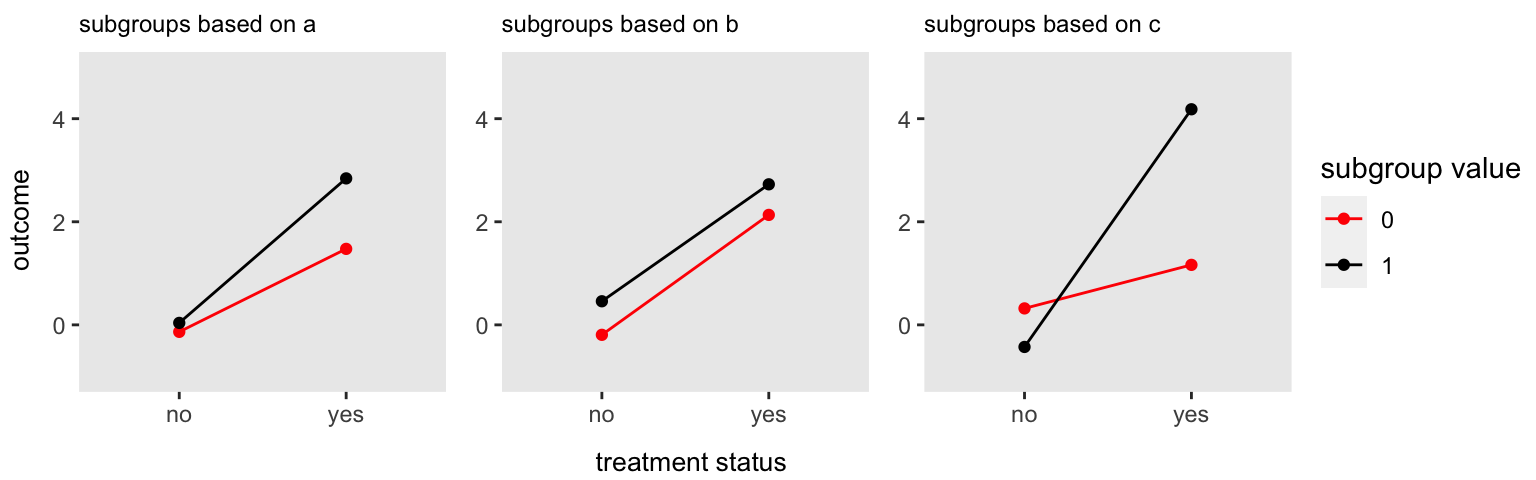
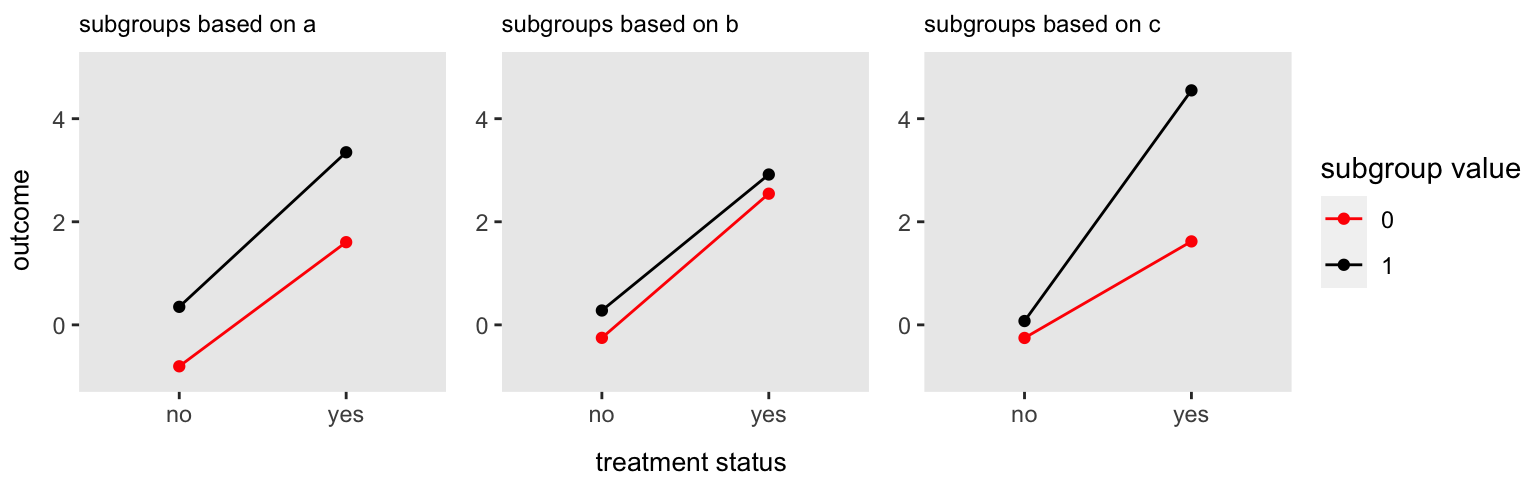
Updating post

diff --git a/content/post/2021-08-31-subgroup-analysis-using-a-bayesian-hierarchical-model/index.en.html b/content/post/2021-08-31-subgroup-analysis-using-a-bayesian-hierarchical-model/index.en.html
@@ -39,7 +39,7 @@ drx &lt;- defDataAdd(varname = &quot;theta&quot;, formula = &quot;0 + 2*a  + 4*c
 drx &lt;- defDataAdd(drx, varname = &quot;y&quot;, formula = &quot;0 + theta*rx&quot;, variance = 4,
   dist = &quot;normal&quot;)</code></pre>
 <p>In the data generation process, I am assigning group identifiers based on the covariates that will be relevant for the Bayes model (described further below).</p>
-<pre class="r"><code>set.seed(38715)
+<pre class="r"><code>set.seed(3871598)
 
 dd &lt;- genData(150, d)
 dd &lt;- trtAssign(dd, grpName = &quot;rx&quot;)
@@ -55,18 +55,18 @@ dd[a==0 &amp; b==1 &amp; c==1, grp := 7]
 dd[a==1 &amp; b==1 &amp; c==1, grp := 8]
 
 dd</code></pre>
-<pre><code>##       id a b c rx theta      y grp
-##   1:   1 0 0 0  0     0  2.169   1
-##   2:   2 1 0 1  0     5  1.044   6
-##   3:   3 1 0 1  0     5 -3.383   6
-##   4:   4 0 0 0  0     0  3.342   1
-##   5:   5 1 1 0  0     2  1.709   5
-##  ---                              
-## 146: 146 1 0 0  1     2  4.046   2
-## 147: 147 1 0 0  0     2  1.565   2
-## 148: 148 1 1 1  0     5 -0.332   8
-## 149: 149 1 1 1  0     5  0.924   8
-## 150: 150 1 0 0  0     2  5.129   2</code></pre>
+<pre><code>##       id a b c rx theta     y grp
+##   1:   1 1 0 1  0     5  0.14   6
+##   2:   2 1 1 0  0     2  1.57   5
+##   3:   3 0 0 0  0     0  0.36   1
+##   4:   4 1 1 0  1     2  1.39   5
+##   5:   5 1 1 1  0     5 -2.97   8
+##  ---                             
+## 146: 146 1 1 0  1     2  3.34   5
+## 147: 147 0 0 1  0     4  1.55   4
+## 148: 148 1 0 0  0     2  2.94   2
+## 149: 149 1 1 1  1     5  4.61   8
+## 150: 150 0 1 1  1     4  4.38   7</code></pre>
 <p>Here is a plot of the average outcome <span class="math inline">\(Y\)</span> for each of the subgroups with and without treatment. The treatment effect for a particular subgroup is the difference of the <span class="math inline">\(Y\)</span> values for each segment. Now, it appears that there is a treatment effect for the two subgroups <span class="math inline">\(B=0\)</span> and <span class="math inline">\(B=1\)</span>, yet <span class="math inline">\(B\)</span> was not supposed to have any impact on the overall effect size, which is <span class="math inline">\(0\)</span>. Just in case this is at all confusing, this is due to the fact that these patients have characteristics <span class="math inline">\(A\)</span> and <span class="math inline">\(C\)</span>, which do influence the effect size. Indeed, if you compare the subgroups <span class="math inline">\(B=0\)</span> and <span class="math inline">\(B=1\)</span>, it appears that the effect size could be the same, which is consistent with the fact that <span class="math inline">\(B\)</span> has no impact on effect size. This is definitely not the case when comparing <span class="math inline">\(C=0\)</span> and <span class="math inline">\(C=1\)</span>. I point this out, because when I report the estimated effect sizes from the models, I will be reporting the subgroup-specific effects shown here, rather than parameter estimates of <span class="math inline">\(\theta\)</span>.</p>
 <p><img src="{{< blogdown/postref >}}index.en_files/figure-html/unnamed-chunk-4-1.png" width="768" /></p>
 </div>
@@ -97,14 +97,14 @@ cis &lt;- data.table(
 setnames(cis, c(&quot;rx&quot;,&quot;2.5 %&quot;, &quot;97.5 %&quot;), c(&quot;p.50&quot;,&quot;p.025&quot;, &quot;p.975&quot;))</code></pre>
 <p>Inspecting the point estimates (denoted as <em>p.50</em> for the treatment effect for each subgroup (and the overall group), we see that they match pretty closely with the effect sizes depicted in the figure of the means by subgroup above. I compare these estimates to the Bayes estimates in a bit.</p>
 <pre class="r"><code>cis</code></pre>
-<pre><code>##    subgroup model  p.50   p.025 p.975
-## 1:    a = 0     3 1.610  0.3502  2.87
-## 2:    a = 1     3 2.803  1.9016  3.71
-## 3:    b = 0     3 2.327  1.3806  3.27
-## 4:    b = 1     3 2.269  1.1488  3.39
-## 5:    c = 0     3 0.845 -0.0647  1.75
-## 6:    c = 1     3 4.611  3.6611  5.56
-## 7:  overall     3 2.351  1.6132  3.09</code></pre>
+<pre><code>##    subgroup model p.50 p.025 p.975
+## 1:    a = 0     3  2.4   1.2   3.6
+## 2:    a = 1     3  3.0   2.1   3.9
+## 3:    b = 0     3  2.8   1.8   3.7
+## 4:    b = 1     3  2.6   1.5   3.8
+## 5:    c = 0     3  1.9   1.0   2.7
+## 6:    c = 1     3  4.5   3.4   5.6
+## 7:  overall     3  2.8   2.0   3.5</code></pre>
 </div>
 <div id="two-possible-bayesian-models" class="section level3">
 <h3>Two possible Bayesian models</h3>
@@ -126,7 +126,7 @@ y_{ij} \sim N\left(\alpha_j +\theta_{j}x_i, \ \sigma_0   \right)
 \end{aligned}\]</span>
 <div id="pooled-model" class="section level4">
 <h4>Pooled model</h4>
-<p>So far, the parameterization for the <em>pooled</em> and <em>unpooled</em> models are the same. And this is where the models diverge. The idea behind the <em>pooled</em> model is that the <em>main effects</em> of <span class="math inline">\(a\)</span>, <span class="math inline">\(b\)</span>, <span class="math inline">\(c\)</span> (<span class="math inline">\(\tau_a\)</span>, <span class="math inline">\(\tau_b\)</span>, and <span class="math inline">\(\tau_c\)</span>, respectively) are drawn from the same distribution centered around <span class="math inline">\(\delta_m\)</span> with a standard deviation <span class="math inline">\(\sigma_m\)</span>, both of which will be estimated from the data. This means that the effect of one covariate will inform to some extent the effect of the others. Of course, as the number of observations increases, the extent of pooling will be reduced. The three 2-level interaction effects (<span class="math inline">\(\tau_{ab}\)</span>, <span class="math inline">\(\tau_{ac}\)</span> and <span class="math inline">\(\tau_{bc}\)</span>) are independent of the main effects, but they share a commone distribution to be estimated from the data. (In this case, the <span class="math inline">\(\alpha_j\)</span> intercepts are also pooled, but we could just as easily relax this, as we are not particuarly interested in these parameters.)</p>
+<p>So far, the parameterization for the <em>pooled</em> and <em>unpooled</em> models are the same. And this is where the models diverge. The idea behind the <em>pooled</em> model is that the <em>main effects</em> of <span class="math inline">\(a\)</span>, <span class="math inline">\(b\)</span>, <span class="math inline">\(c\)</span> (<span class="math inline">\(\tau_a\)</span>, <span class="math inline">\(\tau_b\)</span>, and <span class="math inline">\(\tau_c\)</span>, respectively) are drawn from the same distribution centered around <span class="math inline">\(\delta_m\)</span> with a standard deviation <span class="math inline">\(\sigma_m\)</span>, both of which will be estimated from the data. This means that the effect of one covariate will inform to some extent the effect of the others. Of course, as the number of observations increases, the extent of pooling will be reduced. The three 2-level interaction effects (<span class="math inline">\(\tau_{ab}\)</span>, <span class="math inline">\(\tau_{ac}\)</span> and <span class="math inline">\(\tau_{bc}\)</span>) are independent of the main effects, but they share a common distribution to be estimated from the data. (In this case, the <span class="math inline">\(\alpha_j\)</span> intercepts are also pooled, but we could just as easily relax this, as we are not particularly interested in these parameters.)</p>
 <span class="math display">\[\begin{aligned}
   \alpha_j &amp;\sim N(\mu = \delta_\alpha, \sigma = \sigma_\alpha) \\
   \tau_a, \tau_b, \tau_c &amp;\sim N(\mu = \delta_m, \sigma = \sigma_m) \\
@@ -160,6 +160,7 @@ y_{ij} \sim N\left(\alpha_j +\theta_{j}x_i, \ \sigma_0   \right)
 </div>
 <div id="model-estimation" class="section level3">
 <h3>Model estimation</h3>
+<p>I’m using <code>cmdstanr</code> to estimate the models in <code>Stan</code>. (The Stan code is available if any anyone is interested, or you can try to write it yourself.) For each model, I am sampling in 4 chains of length 2500 following 500 warm-up steps. I’ll skip the required diagnostics here (e.g. trace plots) for brevity, but I did check everything, and things looked OK.</p>
 <pre class="r"><code>model_pool &lt;- cmdstan_model(&quot;code/pooled_subgroup.stan&quot;)
 model_unpool &lt;- cmdstan_model(&quot;code/unpooled_subgroup.stan&quot;)</code></pre>
 <pre class="r"><code>fit_pool &lt;- model_pool$sample(
@@ -174,14 +175,14 @@ model_unpool &lt;- cmdstan_model(&quot;code/unpooled_subgroup.stan&quot;)</code>
 )</code></pre>
 <pre><code>## Running MCMC with 4 parallel chains...
 ## 
-## Chain 3 finished in 2.8 seconds.
-## Chain 1 finished in 2.8 seconds.
-## Chain 4 finished in 3.0 seconds.
-## Chain 2 finished in 3.1 seconds.
+## Chain 4 finished in 2.0 seconds.
+## Chain 1 finished in 2.5 seconds.
+## Chain 3 finished in 3.1 seconds.
+## Chain 2 finished in 3.9 seconds.
 ## 
 ## All 4 chains finished successfully.
 ## Mean chain execution time: 2.9 seconds.
-## Total execution time: 3.2 seconds.</code></pre>
+## Total execution time: 4.1 seconds.</code></pre>
 <pre class="r"><code>fit_unpool &lt;- model_unpool$sample(
     data = list(N = dd[,.N], rx = dd[,rx], sub_grp = dd[,grp], y=dd[,y], prior_sigma=10),
     refresh = 0,
@@ -194,36 +195,83 @@ model_unpool &lt;- cmdstan_model(&quot;code/unpooled_subgroup.stan&quot;)</code>
 )</code></pre>
 <pre><code>## Running MCMC with 4 parallel chains...
 ## 
-## Chain 3 finished in 2.0 seconds.
-## Chain 4 finished in 2.0 seconds.
-## Chain 1 finished in 2.2 seconds.
-## Chain 2 finished in 2.9 seconds.
+## Chain 1 finished in 2.0 seconds.
+## Chain 3 finished in 2.1 seconds.
+## Chain 4 finished in 2.1 seconds.
+## Chain 2 finished in 2.7 seconds.
 ## 
 ## All 4 chains finished successfully.
-## Mean chain execution time: 2.3 seconds.
-## Total execution time: 3.1 seconds.</code></pre>
+## Mean chain execution time: 2.2 seconds.
+## Total execution time: 2.9 seconds.</code></pre>
 </div>
 <div id="extracting-data" class="section level3">
 <h3>Extracting data</h3>
+<p>In this case, I am actually not directly interested in the effect parameters <span class="math inline">\(\theta_j\)</span>, but actually in the estimated treatment effects for the six subgroups defined by <span class="math inline">\(a=0\)</span>, <span class="math inline">\(a=1\)</span>, <span class="math inline">\(b=0\)</span>, <span class="math inline">\(b=1\)</span>, <span class="math inline">\(c=0\)</span>, and <span class="math inline">\(c=1\)</span>. (These groups are not distinct from one another, as each individual has measures for each of <span class="math inline">\(a\)</span>, <span class="math inline">\(b\)</span>, and <span class="math inline">\(c\)</span>.) I will step through the process of how I get these estimates, and then will plot a summary of the estimates.</p>
+<p>First, I extract the key parameter estimates into an <code>rvars</code> data structure, which I discussed recently in a couple of posts (<a href="https://www.rdatagen.net/post/2021-08-10-fitting-your-model-is-only-the-begining-bayesian-posterior-probability-checks/" target="_blank">here</a> and <a href="https://www.rdatagen.net/post/2021-08-17-quick-follow-up-on-posterior-probability-checks-with-rvars/" target="_blank">here</a>). Although the object <code>r</code> below looks like a list of 3 items with just a handful of values, there is actually an entire data set supporting each value that contains 10,000 samples from the posterior distribution. What we are seeing are the mean and standard deviation of those distributions.</p>
 <pre class="r"><code>r &lt;- as_draws_rvars(fit_pool$draws(variables = c(&quot;alpha&quot;,&quot;theta&quot;,&quot;sigma&quot;)))
+r</code></pre>
+<pre><code>## # A draws_rvars: 2500 iterations, 4 chains, and 3 variables
+## $alpha: rvar&lt;2500,4&gt;[8] mean ± sd:
+## [1] -0.81 ± 0.51   0.17 ± 0.38  -0.53 ± 0.59  -0.29 ± 0.49   0.26 ± 0.56 
+## [6]  0.24 ± 0.42   0.48 ± 0.65  -0.11 ± 0.47 
+## 
+## $theta: rvar&lt;2500,4&gt;[8] mean ± sd:
+## [1] 0.8 ± 0.66  2.4 ± 0.52  1.7 ± 0.79  3.7 ± 0.72  2.4 ± 0.72  5.0 ± 0.68 
+## [7] 4.3 ± 0.88  4.4 ± 0.84 
+## 
+## $sigma: rvar&lt;2500,4&gt;[1] mean ± sd:
+## [1] 1.9 ± 0.12</code></pre>
+<p>A cool feature of the <code>rvars</code> data structure (which is part of the package <code>posterior</code>) is that they can be stored in a data.frame, and easily manipulated. Here I am matching the <span class="math inline">\(\theta_j\)</span> to each individual depending on their covariate pattern <span class="math inline">\(j\)</span>. The plan is to generate simulated data for each individual based on the estimated means and standard deviations.</p>
+<pre class="r"><code>df &lt;- as.data.frame(dd)
     
-est_effects &lt;- function(sub_grp) {
+df$theta_hat &lt;- r$theta[dd$grp]
+df$alpha_hat &lt;- r$alpha[dd$grp]
+df$mu_hat &lt;- with(df, alpha_hat + rx* theta_hat)</code></pre>
+<p>Here are the first ten rows (out of the 150 individual records):</p>
+<pre class="r"><code>head(df, 10)</code></pre>
+<pre><code>##    id a b c rx theta     y grp  theta_hat    alpha_hat       mu_hat
+## 1   1 1 0 1  0     5  0.14   6 5.0 ± 0.68  0.24 ± 0.42  0.24 ± 0.42
+## 2   2 1 1 0  0     2  1.57   5 2.4 ± 0.72  0.26 ± 0.56  0.26 ± 0.56
+## 3   3 0 0 0  0     0  0.36   1 0.8 ± 0.66 -0.81 ± 0.51 -0.81 ± 0.51
+## 4   4 1 1 0  1     2  1.39   5 2.4 ± 0.72  0.26 ± 0.56  2.65 ± 0.51
+## 5   5 1 1 1  0     5 -2.97   8 4.4 ± 0.84 -0.11 ± 0.47 -0.11 ± 0.47
+## 6   6 1 1 1  0     5 -0.73   8 4.4 ± 0.84 -0.11 ± 0.47 -0.11 ± 0.47
+## 7   7 1 1 0  0     2  2.73   5 2.4 ± 0.72  0.26 ± 0.56  0.26 ± 0.56
+## 8   8 1 1 0  1     2 -0.16   5 2.4 ± 0.72  0.26 ± 0.56  2.65 ± 0.51
+## 9   9 0 0 1  1     4  2.42   4 3.7 ± 0.72 -0.29 ± 0.49  3.44 ± 0.59
+## 10 10 1 0 0  1     2  4.53   2 2.4 ± 0.52  0.17 ± 0.38  2.54 ± 0.43</code></pre>
+<p>We can add a column of predicted “values” to the data frame.</p>
+<pre class="r"><code>df$pred &lt;- rvar_rng(rnorm, nrow(df), df$mu_hat, r$sigma)
+head(df[,c(&quot;id&quot;, &quot;grp&quot;, &quot;mu_hat&quot;, &quot;pred&quot;)], 10)</code></pre>
+<pre><code>##    id grp       mu_hat       pred
+## 1   1   6  0.24 ± 0.42  0.216 ± 2
+## 2   2   5  0.26 ± 0.56  0.261 ± 2
+## 3   3   1 -0.81 ± 0.51 -0.807 ± 2
+## 4   4   5  2.65 ± 0.51  2.644 ± 2
+## 5   5   8 -0.11 ± 0.47 -0.092 ± 2
+## 6   6   8 -0.11 ± 0.47 -0.071 ± 2
+## 7   7   5  0.26 ± 0.56  0.294 ± 2
+## 8   8   5  2.65 ± 0.51  2.622 ± 2
+## 9   9   4  3.44 ± 0.59  3.398 ± 2
+## 10 10   2  2.54 ± 0.43  2.528 ± 2</code></pre>
+<p>But note that we don’t just have a single value for each of the 150 individuals, but 10,000 samples for each of the 150 individuals (for a total 1.5 million predicted values.) Here is a little bit of evidence that this is the case, as you can see that this is an <code>rvar</code> of dimension <span class="math inline">\(2500 \text{ samples} \times 4 \text{ chains}\)</span>, or <span class="math inline">\(10,000\)</span> predicted values:</p>
+<pre class="r"><code>df[9, &quot;pred&quot;]</code></pre>
+<pre><code>## rvar&lt;2500,4&gt;[1] mean ± sd:
+## [1] 3.4 ± 2</code></pre>
+<p>Finally, we are ready to get estimates of the within-subgroup effect sizes. I’ve written a little function to help out here. For each covariate <span class="math inline">\(a\)</span>, <span class="math inline">\(b\)</span>, and <span class="math inline">\(c\)</span>, the function splits the data set into four subsets. So, for covariate <span class="math inline">\(a\)</span> we have <span class="math inline">\([a=0 \ \&amp; \ rx=0]\)</span>, <span class="math inline">\([a=0 \ \&amp; \ rx=1]\)</span>, <span class="math inline">\([a=1 \ \&amp; \ rx=0]\)</span>, and <span class="math inline">\(a=1 \ \&amp; \ rx=1]\)</span>. For each of those subsets, we get a distribution of mean predicted values by averaging across the distribution of individual predicted values. So, the variable <code>effects</code> contains the distribution of effects for the six subgroups (<span class="math inline">\(a=0\)</span>, <span class="math inline">\(a=1\)</span>, <span class="math inline">\(b=0\)</span>, <span class="math inline">\(b=1\)</span>, <span class="math inline">\(c=0\)</span>, and <span class="math inline">\(c=1\)</span>):</p>
+<pre class="r"><code>est_effects &lt;- function(sub_grp) {
   mean_pred &lt;- lapply(split(df[,c(sub_grp, &quot;rx&quot;,&quot;pred&quot;)], df[, c(sub_grp, &quot;rx&quot;)]), 
     function(x) rvar_mean(x$pred)
   )
   c(mean_pred[[&quot;0.1&quot;]] - mean_pred[[&quot;0.0&quot;]], mean_pred[[&quot;1.1&quot;]] - mean_pred[[&quot;1.0&quot;]])
 }
-    
-df &lt;- as.data.frame(dd)
-    
-df$theta_hat &lt;- r$theta[dd$grp]
-df$alpha_hat &lt;- r$alpha[dd$grp]
-df$mu_hat &lt;- with(df, alpha_hat + rx* theta_hat)
-    
-df$pred &lt;- rvar_rng(rnorm, nrow(df), df$mu_hat, r$sigma)
+
 effects &lt;- do.call(c, lapply(c(&quot;a&quot;,&quot;b&quot;,&quot;c&quot;), est_effects))
-    
-mean_pred &lt;- lapply(split(df[,c(&quot;rx&quot;,&quot;pred&quot;)], df[, &quot;rx&quot;]), function(x) rvar_mean(x$pred) )
+effects</code></pre>
+<pre><code>## rvar&lt;2500,4&gt;[6] mean ± sd:
+## [1] 2.0 ± 0.67  3.2 ± 0.55  2.6 ± 0.51  3.0 ± 0.75  1.9 ± 0.57  4.3 ± 0.67</code></pre>
+<p>We can also get the distribution of the overall (marginal) treatment effect by sub-setting by <span class="math inline">\(rx\)</span> only. The last step is to create a summary table for the <em>pooled</em> model. Remember, the <code>effects</code> table is really a table of distributions, and we can extract summary statistics from those distributions for reporting or plotting. Here, we are extracting the <span class="math inline">\(2.5\%\)</span>, <span class="math inline">\(50\%\)</span>, and <span class="math inline">\(97.5\%\)</span> quantiles to show the median and a <span class="math inline">\(95\%\)</span> interval.</p>
+<pre class="r"><code>mean_pred &lt;- lapply(split(df[,c(&quot;rx&quot;,&quot;pred&quot;)], df[, &quot;rx&quot;]), function(x) rvar_mean(x$pred))
 overall &lt;- mean_pred[[&quot;1&quot;]] - mean_pred[[&quot;0&quot;]]
     
 effects &lt;- c(effects, overall)
@@ -235,7 +283,14 @@ sumstats_pooled &lt;- data.table(
   p.50 = quantile(effects, 0.50),
   p.975 = quantile(effects, 0.975)
 )</code></pre>
-<p><img src="{{< blogdown/postref >}}index.en_files/figure-html/unnamed-chunk-12-1.png" width="672" /></p>
+</div>
+<div id="comparing-model-estimates" class="section level3">
+<h3>Comparing model estimates</h3>
+<p>Now to take a look at the distribution of effect sizes based on the different models. (I didn’t show it, but I also created a table called <code>sumstats_unpooled</code> using the same process I just walked you through.) Below is a plot of the effect estimates for each of the subgroups as well as the overall (marginal) effect estimates. The <code>lm</code> plot shows the point estimate with a <span class="math inline">\(95\%\)</span> confidence interval. The other two plots show the medians of the posterior distributions for the subgroup effects along with <span class="math inline">\(95\%\)</span> intervals.</p>
+<p>Two important things to see in the plot, which will be very important when I write next time about “Type 1” errors, are the relative length of the intervals and the apparent shrinkage of some of the estimates. In all the cases, the length of the interval for the standard linear regression model is smaller than the two Bayesian models, reflecting less uncertainty. The <em>pooled</em> model also appears to have slightly less uncertainty compared to the <em>unpooled</em> model.</p>
+<p>The second point is that the point estimates for the linear regression model and the median estimates for the <em>unpooled</em> model are quite close, while the <em>pooled</em> medians appear to be pulled away. The direction of the shrinkage is not coherent, because there is a mixture of main effects and interaction effects (the <span class="math inline">\(\tau\)</span>’s) that are shifting things around. It appears that the effects of the subgroups <span class="math inline">\(a=1\)</span>, <span class="math inline">\(b=1\)</span>, and <span class="math inline">\(c=1\)</span> are being pulled towards each other, and maybe the same can be said for the group defined by <span class="math inline">\(a=0\)</span>, <span class="math inline">\(b=0\)</span>, and <span class="math inline">\(c=0\)</span>.</p>
+<p><img src="{{< blogdown/postref >}}index.en_files/figure-html/unnamed-chunk-18-1.png" width="672" /></p>
+<p>If we were using the <em>pooled</em> model to draw conclusions, I would say that it appears that subgroups defined by <span class="math inline">\(c\)</span> seem to have heterogeneous treatment effects, though I would probably want to have more data to confirm, as the intervals are still quite wide. If we use the results from the linear regression model, we might want to proceed with caution, because the intervals are likely too narrow, we have not adjusted for multiple testing. We will see this next time when I look at a case where there are no underlying treatment effects in the data generation process.</p>
 <p>
 <p><small><font color="darkkhaki"></p>
 <p>Reference:</p>
